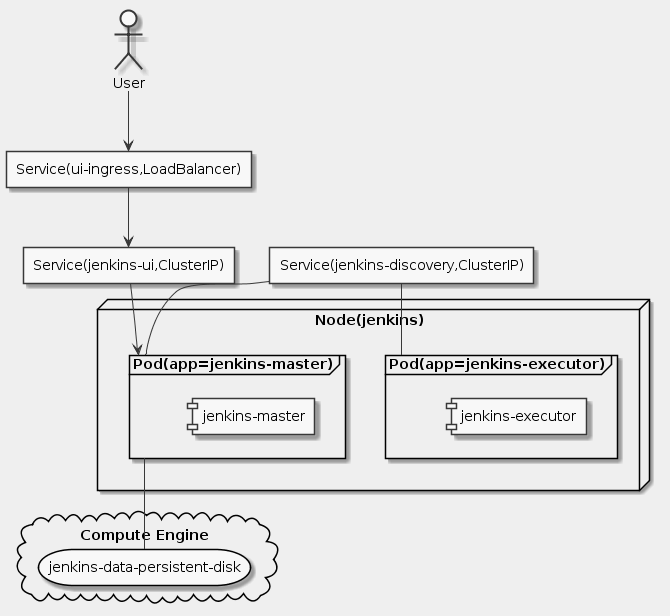
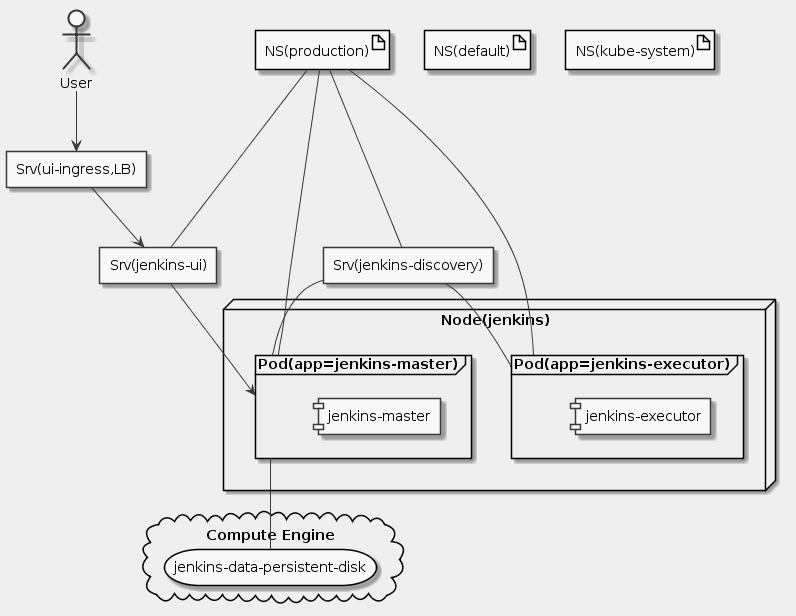
Complete Qwiklabs - Continuous Delivery with Jenkins in Kubernetes Engine.

diff --git a/qwiklabs/continuous_delivery_with_jenkins_in_kubernetes_engine.md b/qwiklabs/continuous_delivery_with_jenkins_in_kubernetes_engine.md
@@ -11,18 +11,18 @@ url: https://www.qwiklabs.com/focuses/1104
 - Create and exercise a Jenkins pipeline
 
 # Task
-- [ ] Clone the repository
-- [ ] Provisioning Jenkins
-- [ ] Install Helm
-- [ ] Configure and Install Jenkins
-- [ ] Connect to Jenkins
-- [ ] Understanding the Application
-- [ ] Deploying the Application
-- [ ] Creating the Jenkins Pipeline
-- [ ] Creating the Development Environment
-- [ ] Kick off Deployment
-- [ ] Deploying a Canary Release
-- [ ] Deploying to production
+- [x] Clone the repository
+- [x] Provisioning Jenkins
+- [x] Install Helm
+- [x] Configure and Install Jenkins
+- [x] Connect to Jenkins
+- [x] Understanding the Application
+- [x] Deploying the Application
+- [x] Creating the Jenkins Pipeline
+- [x] Creating the Development Environment
+- [x] Kick off Deployment
+- [x] Deploying a Canary Release
+- [x] Deploying to production
 
 # Supplement
 ![](continuous_delivery_with_jenkins_in_kubernetes_engine.png)
@@ -32,9 +32,13 @@ skinparam monochrome true
 skinparam backgroundColor #EEEEFF
 
 actor User as U
-agent "Service(ui-ingress,LoadBalancer)" as S1
-agent "Service(jenkins-ui,ClusterIP)" as S2
-agent "Service(jenkins-discovery,ClusterIP)" as S3
+agent "Srv(ui-ingress,LB)" as S1
+agent "Srv(jenkins-ui)" as S2
+agent "Srv(jenkins-discovery)" as S3
+
+artifact "NS(default)" as NS1
+artifact "NS(kube-system)" as NS2
+artifact "NS(production)" as NS3
 
 node Node(jenkins) {
   frame Pod(app=jenkins-master) as P11 {
@@ -54,11 +58,16 @@ S2 --> P11
 S3 -- P11
 S3 -- P12
 P11 -- D
+NS3 --- S2
+NS3 --- S3
+NS3 --- P11
+NS3 --- P12
 ```
 
 ## Clone the repository
 ```sh
 gcloud config set compute/zone us-east1-d
+gcloud config set project qwiklabs-gcp-34a6a525ce8f1092
 git clone https://github.com/GoogleCloudPlatform/continuous-deployment-on-kubernetes.git
 cd continuous-deployment-on-kubernetes
 ```
@@ -98,8 +107,6 @@ kubectl get svc
 ```sh
 printf $(kubectl get secret cd-jenkins -o jsonpath="{.data.jenkins-admin-password}" | base64 --decode);echo
 ```
-
-## Understanding the Application
 
 ## Deploying the Application
 ```sh

diff --git a/qwiklabs/setting_up_jenkins_on_kubernetes_engine.md b/qwiklabs/setting_up_jenkins_on_kubernetes_engine.md
@@ -1,0 +1,20 @@
+---
+title: "Setting up Jenkins on Kubernetes Engine"
+tags: google-cloud-platform, google-kubernetes-engine, kubernetes, jenkins
+url: https://google.qwiklabs.com/focuses/1776
+---
+
+# Goal
+- Creating a Kubernetes cluster with Kubernetes Engine
+- Creating a Jenkins deployment and services
+- Connecting to Jenkins
+
+# Task
+- [ ] Install Helm
+- [ ] Configure and Install Jenkins
+- [ ] Connect to Jenkins
+
+# Supplement
+## Install Helm
+## Configure and Install Jenkins
+## Connect to Jenkins
